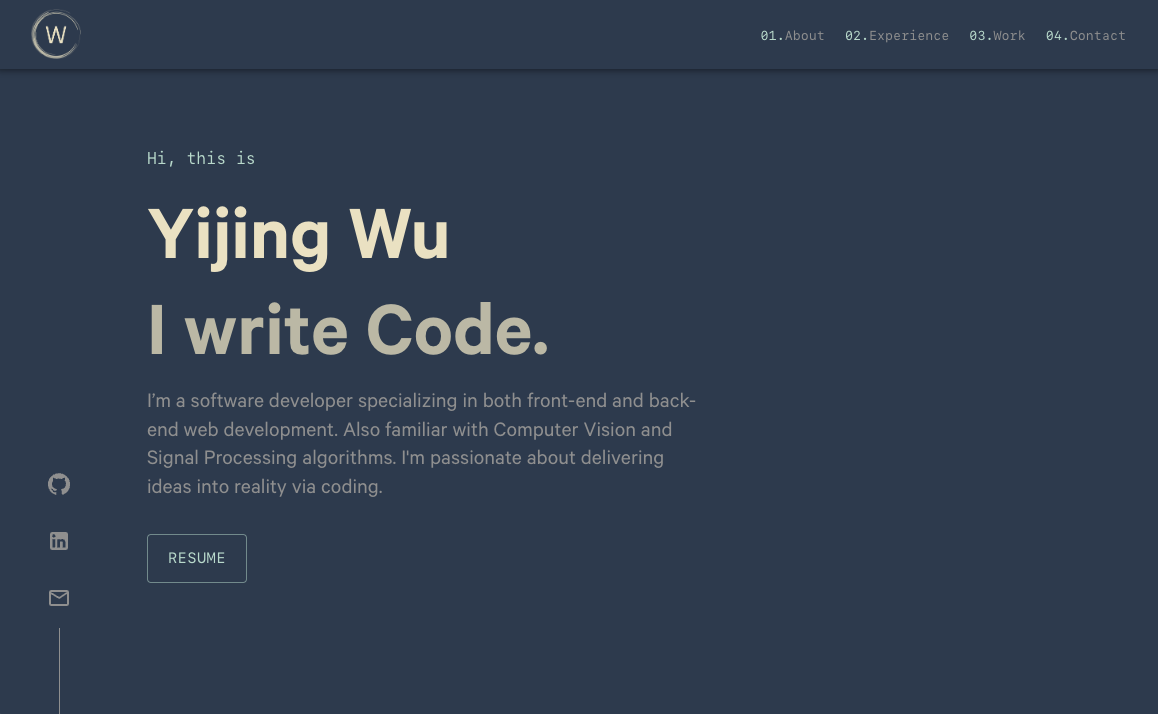
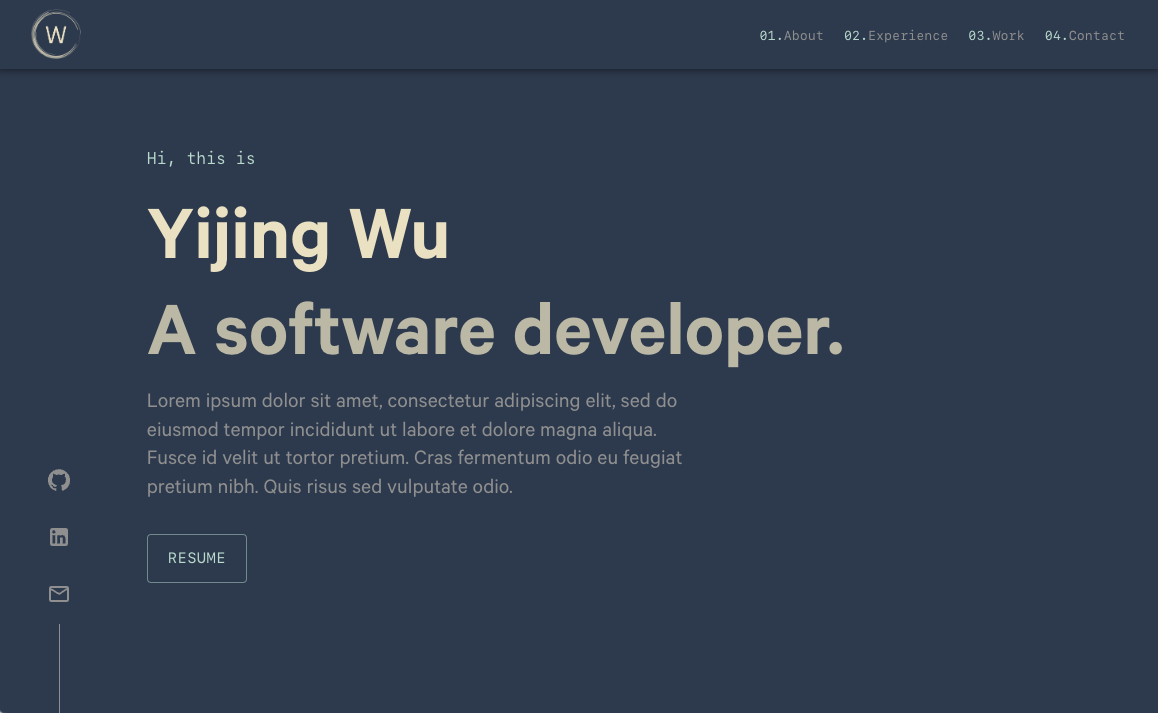
Update link for project: person website v2

diff --git a/src/assets/projectsData.tsx b/src/assets/projectsData.tsx
@@ -245,7 +245,7 @@ const personalWebsiteV2 = {
   tools: ["React", "Typescript", "CSS"],
   mainLink: "/",
   isMainLinkExternal: true, // inorder to redirect
-  githubLink: "",
+  githubLink: "https://github.com/yijing-wu/personal-website-v2",
 };
 
 const rubikCubeHelper = {
